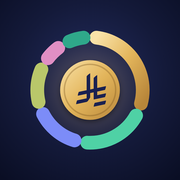
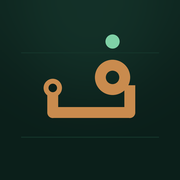
Add files via upload

diff --git a/index.html b/index.html
@@ -7,20 +7,21 @@
 <meta name="mobile-web-app-capable" content="yes">
 <meta name="apple-mobile-web-app-status-bar-style" content="black-translucent">
 <meta name="apple-mobile-web-app-title" content="التوزيع">
-<meta name="theme-color" content="#10152E">
+<meta name="theme-color" content="#0B1F1A">
 <link rel="manifest" href="manifest.json">
 <title>لوحة التوزيع — الميزانية الشهرية</title>
-<link rel="apple-touch-icon" href="icon-180.png?v=2">
+<link rel="apple-touch-icon" href="icon-180.png?v=4">
 <link rel="icon" href="icon.png?v=2">
 <style>
 @import url('https://fonts.googleapis.com/css2?family=IBM+Plex+Sans+Arabic:wght@400;500;600&family=Readex+Pro:wght@300;400;500;600;700&display=swap');
 
 :root{
-  --bg:#10152E; --bar:rgba(14,19,42,.82);
-  --surface:#171D3D; --surface2:#1F2650; --raise:#252D5C;
-  --line:#2E3670; --line-soft:#232A57;
-  --text:#F2EEE3; --muted:#959AC6; --faint:#6A6F9E;
-  --gold:#E3B55B; --mint:#4FD1A5; --coral:#FF6B5E; --lilac:#A794FF;
+  /* الهوية: لوحة توزيع — زمردي + نحاس الموصلات */
+  --bg:#0B1F1A; --bar:rgba(11,31,26,.84);
+  --surface:#102A22; --surface2:#16362C; --raise:#1C4034;
+  --line:#285244; --line-soft:#1D3F34;
+  --text:#EFEBDD; --muted:#9DB8AB; --faint:#6D8B7E;
+  --gold:#C98B4E; --mint:#7FD1A6; --coral:#E8765F; --lilac:#A9C7E0;
   /* aliases used by the script */
   --amber:var(--gold); --teal:var(--mint); --rust:var(--coral); --violet:var(--lilac);
   --r-s:10px; --r-m:14px; --r-l:26px;
@@ -59,7 +60,7 @@ body{
 .eye{background:var(--surface2);border:1px solid var(--line-soft);color:var(--muted);border-radius:var(--r-s);
   width:38px;height:38px;cursor:pointer;display:flex;align-items:center;justify-content:center;flex:none}
 .eye svg{width:19px;height:19px;display:block}
-.eye.on{color:var(--gold);border-color:rgba(227,181,91,.5);background:rgba(227,181,91,.12)}
+.eye.on{color:var(--gold);border-color:rgba(201,139,78,.5);background:rgba(201,139,78,.12)}
 
 /* ---------- sections ---------- */
 section{margin-top:34px}
@@ -68,7 +69,7 @@ section.hero{margin-top:10px}
 /* ===== ترتيب الأقسام: مجموعات وأقسام قابلة للطي ===== */
 #lockScreen{position:fixed;inset:0;z-index:9999;display:none;flex-direction:column;align-items:center;
   padding:calc(env(safe-area-inset-top,0px) + 9vh) 28px calc(env(safe-area-inset-bottom,0px) + 22px);
-  background:radial-gradient(130% 55% at 50% 0%,#1F2757 0%,var(--bg) 60%);color:var(--text);transition:opacity .3s ease}
+  background:radial-gradient(130% 55% at 50% 0%,#174034 0%,var(--bg) 60%);color:var(--text);transition:opacity .3s ease}
 body.locked #lockScreen{display:flex}
 body.locked>*:not(#lockScreen){visibility:hidden}
 #lockScreen.leaving{opacity:0}
@@ -112,7 +113,7 @@ body.locked>*:not(#lockScreen){visibility:hidden}
 .info-btn:active{color:var(--gold);border-color:var(--gold)}
 .info-btn.inline{display:grid;margin:8px 0 0 auto}
 .info-modal{text-align:center}
-.info-modal .info-ic{width:44px;height:44px;margin:0 auto 12px;border-radius:50%;background:rgba(227,181,91,.12);color:var(--gold);
+.info-modal .info-ic{width:44px;height:44px;margin:0 auto 12px;border-radius:50%;background:rgba(201,139,78,.12);color:var(--gold);
   font:italic 700 22px/44px Georgia,serif}
 .info-modal h3{margin:0 0 10px;font-size:17px}
 .info-modal p{margin:0 0 18px;font-size:14.5px;line-height:1.8;color:var(--muted);text-align:start;white-space:pre-line}
@@ -134,9 +135,11 @@ body.locked>*:not(#lockScreen){visibility:hidden}
 .seg{display:grid;grid-template-columns:repeat(4,1fr);gap:4px;background:rgba(255,255,255,.06);border-radius:11px;padding:3px;margin-top:10px}
 .seg button{border:none;background:none;color:var(--muted);font-family:inherit;font-size:12.5px;padding:8px 2px;border-radius:9px;cursor:pointer}
 .seg button.on{background:var(--surface2);color:var(--text);font-weight:600;box-shadow:0 1px 3px rgba(0,0,0,.3)}
-body.covered::before{content:'';position:fixed;inset:0;z-index:9998;background:var(--bg) url("icon-180.png?v=2") center/72px no-repeat}
+body.covered::before{content:'';position:fixed;inset:0;z-index:9998;background:var(--bg) url("icon-180.png?v=4") center/72px no-repeat}
 body.covered>*:not(#lockScreen){visibility:hidden}
-.grp-title{margin:30px 4px 8px;font-size:12px;font-weight:600;letter-spacing:.3px;color:var(--faint)}
+.grp-title{margin:30px 4px 8px;font-size:12px;font-weight:600;letter-spacing:.3px;color:var(--faint);display:flex;align-items:center;gap:10px}
+.grp-title::after{content:'';flex:1;height:1.5px;background:linear-gradient(90deg,transparent,rgba(201,139,78,.45));border-radius:2px}
+.grp-title::before{content:'';width:7px;height:7px;border-radius:50%;background:var(--gold);box-shadow:0 0 0 3px rgba(201,139,78,.18);order:2}
 section.coll{margin-top:10px}
 section.coll>.sec-title{display:flex;align-items:center;gap:10px;cursor:pointer;user-select:none;-webkit-user-select:none;
   background:var(--surface);border:1px solid var(--line-soft);border-radius:var(--r-m);padding:14px 16px;margin:0}
@@ -156,14 +159,14 @@ details.ln-person .ln-cnt{font-size:11.5px;color:var(--faint);font-weight:400}
 
 /* ---------- hero: cap ring ---------- */
 .hero .gauge-card{position:relative;border-radius:var(--r-l);padding:22px 16px 16px;
-  background:linear-gradient(180deg,#1A2147 0%,var(--surface) 55%);border:1px solid var(--line-soft);overflow:hidden}
+  background:linear-gradient(180deg,#133329 0%,var(--surface) 55%);border:1px solid var(--line-soft);overflow:hidden}
 .hero .gauge-card::before{content:'';position:absolute;inset:-40% 10% auto;height:340px;
-  background:radial-gradient(closest-side,rgba(227,181,91,.16),transparent);pointer-events:none}
+  background:radial-gradient(closest-side,rgba(201,139,78,.16),transparent);pointer-events:none}
 .ring-wrap{position:relative;width:min(272px,76vw);aspect-ratio:1;margin:0 auto}
 .ring{width:100%;height:100%;display:block;overflow:visible}
 .ring-track{fill:none;stroke:var(--surface2);stroke-width:17}
 .ring-arc{fill:none;stroke-width:17;transition:stroke-dasharray 1.1s cubic-bezier(.22,1,.36,1)}
-.ring-wrap.over .ring-track{stroke:rgba(255,107,94,.25)}
+.ring-wrap.over .ring-track{stroke:rgba(232,118,95,.25)}
 .ring-center{position:absolute;inset:0;display:flex;flex-direction:column;align-items:center;justify-content:center;text-align:center}
 .ring-center .gauge-big{font-family:var(--num);font-size:clamp(40px,12vw,54px);font-weight:600;line-height:1;
   letter-spacing:-.02em;direction:ltr;font-variant-numeric:tabular-nums}
@@ -178,7 +181,7 @@ details.ln-person .ln-cnt{font-size:11.5px;color:var(--faint);font-weight:400}
 
 .brk{display:flex;flex-wrap:wrap;gap:7px;margin-top:16px}
 .brk span{display:inline-flex;align-items:center;gap:6px;font-size:12px;color:var(--muted);
-  background:rgba(31,38,80,.7);border-radius:20px;padding:4px 10px 4px 11px}
+  background:rgba(22,54,44,.75);border-radius:20px;padding:4px 10px 4px 11px}
 .brk span i{width:8px;height:8px;border-radius:50%;flex:none}
 .brk b{color:var(--text);font-family:var(--num);font-weight:500;direction:ltr}
 
@@ -198,15 +201,15 @@ details.ln-person .ln-cnt{font-size:11.5px;color:var(--faint);font-weight:400}
 .note-in{width:100%;margin-top:8px;background:transparent;border:1px solid var(--line-soft);color:var(--text);
   border-radius:var(--r-s);padding:10px 12px;font-family:inherit;font-size:15px}
 .note-in:focus{outline:none;border-color:var(--gold)}
-select.need{border-color:var(--gold)!important;box-shadow:0 0 0 3px rgba(227,181,91,.12)}
+select.need{border-color:var(--gold)!important;box-shadow:0 0 0 3px rgba(201,139,78,.12)}
 .more-btn{background:none;border:none;color:var(--lilac);font-family:inherit;font-size:13px;padding:10px 2px 0;cursor:pointer}
 
-.btn{background:var(--gold);color:#1B1630;border:none;border-radius:var(--r-s);padding:0 20px;height:48px;
+.btn{background:var(--gold);color:#1D1606;border:none;border-radius:var(--r-s);padding:0 20px;height:48px;
   font-family:var(--num);font-size:15px;font-weight:600;cursor:pointer;white-space:nowrap;transition:transform .12s,filter .15s}
 .btn:active{transform:scale(.97);filter:brightness(1.08)}
 .btn.ghost{background:transparent;border:1px solid var(--line);color:var(--text);font-weight:500}
-.btn.warn{background:transparent;border:1px solid rgba(227,181,91,.55);color:var(--gold)}
-.btn.danger{background:rgba(255,107,94,.14);border:1px solid rgba(255,107,94,.5);color:var(--coral)}
+.btn.warn{background:transparent;border:1px solid rgba(201,139,78,.55);color:var(--gold)}
+.btn.danger{background:rgba(232,118,95,.14);border:1px solid rgba(232,118,95,.5);color:var(--coral)}
 .btn.full{width:100%;margin-top:10px}
 .btn.sm{height:40px;font-size:13.5px}
 
@@ -214,9 +217,9 @@ select.need{border-color:var(--gold)!important;box-shadow:0 0 0 3px rgba(227,181
 .log{margin-top:14px}
 .log-row{display:flex;align-items:center;gap:10px;padding:12px 2px;border-bottom:1px solid var(--line-soft);cursor:pointer;font-size:13px}
 .log-row:last-child{border-bottom:none}
-.log-row:active{background:rgba(167,148,255,.06)}
+.log-row:active{background:rgba(169,199,224,.06)}
 .log-row.fresh{animation:fresh 1.4s ease}
-@keyframes fresh{0%{background:rgba(227,181,91,.22)}100%{background:transparent}}
+@keyframes fresh{0%{background:rgba(201,139,78,.22)}100%{background:transparent}}
 .log-main{flex:1;min-width:0;display:flex;align-items:center;gap:7px;flex-wrap:wrap}
 .cdot{width:8px;height:8px;border-radius:50%;flex:none}
 .log-note{width:100%;font-size:12px;color:var(--muted);overflow:hidden;text-overflow:ellipsis;white-space:nowrap;padding-right:15px}
@@ -228,12 +231,12 @@ select.need{border-color:var(--gold)!important;box-shadow:0 0 0 3px rgba(227,181
 .cb{font-size:11px;color:var(--mint);font-family:var(--num);direction:ltr;min-width:40px;text-align:left}
 .cb.none{color:var(--faint);opacity:.6}
 .empty{color:var(--muted);font-size:13px;text-align:center;padding:24px 10px;line-height:1.8}
-.gotbtn{flex:none;background:transparent;border:1px solid rgba(167,148,255,.5);color:var(--lilac);border-radius:20px;
+.gotbtn{flex:none;background:transparent;border:1px solid rgba(169,199,224,.5);color:var(--lilac);border-radius:20px;
   font-family:inherit;font-size:11px;padding:4px 10px;cursor:pointer;white-space:nowrap}
-.gotbtn.done{border-color:rgba(79,209,165,.45);color:var(--mint)}
+.gotbtn.done{border-color:rgba(127,209,166,.45);color:var(--mint)}
 .log-row.got{opacity:.5}
 .proxyline{display:flex;justify-content:space-between;align-items:center;margin-top:14px;padding:11px 13px;
-  border-radius:var(--r-s);background:rgba(167,148,255,.08);font-size:12.5px;color:var(--muted)}
+  border-radius:var(--r-s);background:rgba(169,199,224,.08);font-size:12.5px;color:var(--muted)}
 .proxyline b{color:var(--lilac);font-family:var(--num);font-size:16px;font-weight:600;direction:ltr}
 
 /* ---------- plain gauges (fuel) ---------- */
@@ -269,7 +272,7 @@ select.need{border-color:var(--gold)!important;box-shadow:0 0 0 3px rgba(227,181
 .busbar{display:none}
 
 /* ---------- sweep ---------- */
-.sweep{background:var(--surface);border:1px solid rgba(79,209,165,.3);border-radius:var(--r-m);padding:18px 16px}
+.sweep{background:var(--surface);border:1px solid rgba(127,209,166,.3);border-radius:var(--r-m);padding:18px 16px}
 .sw-big{font-family:var(--num);font-size:40px;font-weight:600;color:var(--mint);line-height:1.05;text-align:right}
 .sw-big .rial{font-size:13px}
 .sw-sub{font-size:12px;color:var(--muted);margin-top:6px;line-height:1.7}
@@ -290,9 +293,9 @@ select.need{border-color:var(--gold)!important;box-shadow:0 0 0 3px rgba(227,181
   background:var(--bg);border:2px solid var(--line)}
 .branch[data-kind="save"]::after{border-color:var(--mint)}
 .branch[data-kind="cap"]::after{border-color:var(--gold)}
-.branch[data-kind="pre"]::after{border-color:#6FB7D9;background:#6FB7D9}
+.branch[data-kind="pre"]::after{border-color:#6FB9B6;background:#6FB9B6}
 .branch[data-kind="pre"] .card{background:transparent;border-style:dashed}
-.pretag{font-size:10px;color:#6FB7D9;border:1px solid rgba(111,183,217,.45);border-radius:20px;padding:1px 7px;margin-right:6px;font-weight:500;vertical-align:2px}
+.pretag{font-size:10px;color:#6FB9B6;border:1px solid rgba(111,185,182,.45);border-radius:20px;padding:1px 7px;margin-right:6px;font-weight:500;vertical-align:2px}
 .branch .card{display:flex;align-items:center;gap:10px}
 .b-name{flex:1;min-width:0}
 .b-name strong{display:block;font-size:14.5px;font-weight:500}
@@ -304,8 +307,8 @@ select.need{border-color:var(--gold)!important;box-shadow:0 0 0 3px rgba(227,181
 .load{height:3px;background:var(--surface2);border-radius:2px;margin-top:9px;overflow:hidden}
 .load i{display:block;height:100%;border-radius:2px;transition:width .4s ease}
 .balance{margin-top:6px;padding:12px 14px;border-radius:var(--r-s);display:flex;justify-content:space-between;align-items:center;font-size:13px}
-.balance.ok{background:rgba(79,209,165,.09);color:var(--mint)}
-.balance.off{background:rgba(255,107,94,.1);color:var(--coral)}
+.balance.ok{background:rgba(127,209,166,.09);color:var(--mint)}
+.balance.off{background:rgba(232,118,95,.1);color:var(--coral)}
 
 /* ---------- cashback ---------- */
 .cbgrid{display:grid;grid-template-columns:repeat(2,1fr);gap:8px}
@@ -339,8 +342,8 @@ select.need{border-color:var(--gold)!important;box-shadow:0 0 0 3px rgba(227,181
 .dot.closed{background:var(--mint)}
 
 /* ---------- bank inbox ---------- */
-.ib-cnt{background:var(--gold);color:#1B1630;border-radius:20px;padding:0 8px;font-size:12px;margin-right:6px;vertical-align:2px}
-.inbox{border-color:rgba(227,181,91,.35);padding:4px 14px}
+.ib-cnt{background:var(--gold);color:#1D1606;border-radius:20px;padding:0 8px;font-size:12px;margin-right:6px;vertical-align:2px}
+.inbox{border-color:rgba(201,139,78,.35);padding:4px 14px}
 .ib-row{padding:13px 0;border-bottom:1px solid var(--line-soft)}
 .ib-row:last-child{border-bottom:none}
 .ib-top{display:flex;align-items:baseline;gap:10px}
@@ -348,11 +351,11 @@ select.need{border-color:var(--gold)!important;box-shadow:0 0 0 3px rgba(227,181
 .ib-a{font-family:var(--num);font-size:17px;font-weight:600;direction:ltr}
 .ib-a.in{color:var(--mint)}
 .ib-meta{display:flex;align-items:center;gap:8px;margin-top:4px}
-.ib-dup{font-size:10.5px;color:var(--coral);border:1px solid rgba(255,107,94,.45);border-radius:20px;padding:1px 7px}
+.ib-dup{font-size:10.5px;color:var(--coral);border:1px solid rgba(232,118,95,.45);border-radius:20px;padding:1px 7px}
 .ib-act{display:flex;gap:7px;margin-top:10px;flex-wrap:wrap}
 .ib-act select{flex:1;min-width:130px;height:40px;background:var(--surface2);border:1px solid var(--line-soft);color:var(--text);border-radius:var(--r-s);padding:0 10px;font-family:inherit;font-size:15px}
 .ib-act .btn{height:40px}
-.ib-badge{background:var(--gold);color:#1B1630;border-radius:20px;min-width:26px;height:26px;display:flex;align-items:center;justify-content:center;font-size:13px;font-weight:600;text-decoration:none;padding:0 7px}
+.ib-badge{background:var(--gold);color:#1D1606;border-radius:20px;min-width:26px;height:26px;display:flex;align-items:center;justify-content:center;font-size:13px;font-weight:600;text-decoration:none;padding:0 7px}
 .synclog{margin-top:12px;font-size:12.5px;color:var(--muted)}
 .synclog summary{cursor:pointer;padding:6px 0}
 .sl-row{display:flex;gap:8px;align-items:baseline;padding:6px 0;border-bottom:1px solid var(--line-soft)}
@@ -380,7 +383,7 @@ select.need{border-color:var(--gold)!important;box-shadow:0 0 0 3px rgba(227,181
 /* ---------- tabs ---------- */
 .tab-off{display:none!important}
 .tabbar{position:fixed;left:0;right:0;bottom:0;z-index:40;display:flex;justify-content:space-around;
-  background:rgba(14,19,42,.92);backdrop-filter:saturate(1.4) blur(16px);-webkit-backdrop-filter:saturate(1.4) blur(16px);
+  background:rgba(9,26,21,.94);backdrop-filter:saturate(1.4) blur(16px);-webkit-backdrop-filter:saturate(1.4) blur(16px);
   border-top:1px solid var(--line-soft);padding:6px 6px calc(6px + env(safe-area-inset-bottom))}
 .tabbar button{position:relative;flex:1;max-width:120px;background:none;border:none;color:var(--faint);font-family:inherit;
   font-size:11px;display:flex;flex-direction:column;align-items:center;gap:3px;padding:6px 0;cursor:pointer;transition:color .2s}
@@ -399,7 +402,7 @@ select.need{border-color:var(--gold)!important;box-shadow:0 0 0 3px rgba(227,181
 .g-pct{font-family:var(--num);font-size:15px;font-weight:600;color:var(--gold)}
 .goal.done .g-pct{color:var(--mint)}
 .g-bar{height:8px;background:var(--surface2);border-radius:5px;margin:10px 0 8px;overflow:hidden}
-.g-bar i{display:block;height:100%;border-radius:5px;background:linear-gradient(90deg,var(--gold),#F2D08A);transition:width .8s cubic-bezier(.22,1,.36,1)}
+.g-bar i{display:block;height:100%;border-radius:5px;background:linear-gradient(90deg,var(--gold),#E0A873);transition:width .8s cubic-bezier(.22,1,.36,1)}
 .goal.done .g-bar i{background:var(--mint)}
 .g-nums{font-size:12.5px;color:var(--muted)}
 .g-nums .num{color:var(--text);font-weight:500}
@@ -421,8 +424,8 @@ select.need{border-color:var(--gold)!important;box-shadow:0 0 0 3px rgba(227,181
 .rep-big{font-family:var(--num);font-size:30px;font-weight:600;direction:ltr}
 .rep-sub{font-size:12.5px;color:var(--muted);margin-top:2px}
 .delta{font-family:var(--num);font-size:12px;font-weight:500;border-radius:20px;padding:2px 8px;direction:ltr;display:inline-block}
-.delta.up{color:var(--coral);background:rgba(255,107,94,.12)}
-.delta.down{color:var(--mint);background:rgba(79,209,165,.12)}
+.delta.up{color:var(--coral);background:rgba(232,118,95,.12)}
+.delta.down{color:var(--mint);background:rgba(127,209,166,.12)}
 .rep-h{font-size:12.5px;color:var(--muted);margin:18px 0 8px}
 .rc{display:grid;grid-template-columns:1fr auto;gap:4px 10px;align-items:center;margin-bottom:10px}
 .rc .rc-n{font-size:13.5px;display:flex;align-items:center;gap:7px}
@@ -462,37 +465,37 @@ select.need{border-color:var(--gold)!important;box-shadow:0 0 0 3px rgba(227,181
 .jam-tl{display:flex;gap:4px;margin:14px 0 6px;direction:rtl}
 .jam-tl i{flex:1;height:30px;border-radius:6px;background:var(--surface2);display:flex;align-items:center;justify-content:center;
   font-style:normal;font-size:9.5px;color:var(--faint);font-family:var(--num)}
-.jam-tl i.paid{background:rgba(79,209,165,.22);color:var(--mint)}
-.jam-tl i.turn{background:var(--gold);color:#1B1630;font-weight:600}
+.jam-tl i.paid{background:rgba(127,209,166,.22);color:var(--mint)}
+.jam-tl i.turn{background:var(--gold);color:#1D1606;font-weight:600}
 .jam-tl i.now{outline:2px solid var(--gold);outline-offset:1px}
 .jam-leg{display:flex;gap:12px;font-size:11px;color:var(--muted);flex-wrap:wrap}
 .jam-leg span::before{content:'';display:inline-block;width:8px;height:8px;border-radius:2px;margin-left:5px;vertical-align:0}
-.jam-leg .l1::before{background:rgba(79,209,165,.5)}.jam-leg .l2::before{background:var(--gold)}.jam-leg .l3::before{background:var(--surface2)}
+.jam-leg .l1::before{background:rgba(127,209,166,.5)}.jam-leg .l2::before{background:var(--gold)}.jam-leg .l3::before{background:var(--surface2)}
 .jam-kv{display:grid;grid-template-columns:1fr 1fr;gap:8px;margin-top:14px}
 .jam-kv div{background:var(--surface2);border-radius:var(--r-s);padding:10px 12px}
 .jam-kv span{font-size:11.5px;color:var(--muted);display:block}
 .jam-kv b{font-family:var(--num);font-size:16px;font-weight:600;direction:ltr;display:inline-block}
-.jam-msg{margin-top:12px;font-size:13px;line-height:1.8;padding:10px 12px;border-radius:var(--r-s);background:rgba(79,209,165,.08);color:var(--mint)}
+.jam-msg{margin-top:12px;font-size:13px;line-height:1.8;padding:10px 12px;border-radius:var(--r-s);background:rgba(127,209,166,.08);color:var(--mint)}
 
 /* ---------- payday ---------- */
 .pay-head{display:flex;justify-content:space-between;align-items:baseline;gap:10px}
 .pay-head strong{font-family:var(--num);font-size:16px;font-weight:600}
 .pay-head span{font-size:12.5px;color:var(--muted)}
 .pay-bar{height:8px;background:var(--surface2);border-radius:5px;margin:12px 0 6px;overflow:hidden}
-.pay-bar i{display:block;height:100%;background:linear-gradient(90deg,var(--mint),#8FE6C8);border-radius:5px;transition:width .6s cubic-bezier(.22,1,.36,1)}
+.pay-bar i{display:block;height:100%;background:linear-gradient(90deg,var(--mint),#B5E6CB);border-radius:5px;transition:width .6s cubic-bezier(.22,1,.36,1)}
 .ps{display:flex;align-items:center;gap:11px;padding:11px 0;border-bottom:1px solid var(--line-soft);cursor:pointer}
 .ps:last-child{border-bottom:none}
 .ps-c{width:24px;height:24px;border-radius:50%;border:2px solid var(--line);flex:none;display:flex;align-items:center;justify-content:center;transition:all .2s}
 .ps.done .ps-c{background:var(--mint);border-color:var(--mint)}
-.ps.done .ps-c::after{content:'';width:6px;height:11px;border:solid #10152E;border-width:0 2.5px 2.5px 0;transform:rotate(45deg) translate(-1px,-1px)}
+.ps.done .ps-c::after{content:'';width:6px;height:11px;border:solid #0B1F1A;border-width:0 2.5px 2.5px 0;transform:rotate(45deg) translate(-1px,-1px)}
 .ps-n{flex:1;min-width:0}
 .ps-n strong{display:block;font-size:14.5px;font-weight:500}
 .ps-n small{display:block;font-size:11.5px;color:var(--muted);overflow:hidden;text-overflow:ellipsis;white-space:nowrap}
 .ps.done .ps-n strong{color:var(--muted);text-decoration:line-through}
 .ps-a{font-family:var(--num);font-size:15px;font-weight:500;direction:ltr}
-.ps-auto{font-size:10px;color:var(--mint);border:1px solid rgba(79,209,165,.45);border-radius:20px;padding:0 6px;margin-right:6px;vertical-align:1px}
+.ps-auto{font-size:10px;color:var(--mint);border:1px solid rgba(127,209,166,.45);border-radius:20px;padding:0 6px;margin-right:6px;vertical-align:1px}
 .ps-btn{margin:4px 0 2px}
-.pay-banner{display:flex;align-items:center;gap:12px;cursor:pointer;border-color:rgba(79,209,165,.4);background:linear-gradient(90deg,rgba(79,209,165,.1),var(--surface))}
+.pay-banner{display:flex;align-items:center;gap:12px;cursor:pointer;border-color:rgba(127,209,166,.4);background:linear-gradient(90deg,rgba(127,209,166,.1),var(--surface))}
 .pay-banner .pb-ic{font-size:22px}
 .pay-banner .pb-t{flex:1}
 .pay-banner strong{display:block;font-size:14.5px;font-weight:600}
@@ -503,15 +506,15 @@ select.need{border-color:var(--gold)!important;box-shadow:0 0 0 3px rgba(227,181
 .hc{display:flex;gap:11px;padding:11px 0;border-bottom:1px solid var(--line-soft);align-items:flex-start}
 .hc:last-child{border-bottom:none}
 .hc-i{width:24px;height:24px;border-radius:50%;flex:none;display:flex;align-items:center;justify-content:center;font-size:13px;font-weight:700;margin-top:1px}
-.hc.ok .hc-i{background:rgba(79,209,165,.18);color:var(--mint)}
-.hc.warn .hc-i{background:rgba(227,181,91,.18);color:var(--gold)}
-.hc.bad .hc-i{background:rgba(255,107,94,.18);color:var(--coral)}
+.hc.ok .hc-i{background:rgba(127,209,166,.18);color:var(--mint)}
+.hc.warn .hc-i{background:rgba(201,139,78,.18);color:var(--gold)}
+.hc.bad .hc-i{background:rgba(232,118,95,.18);color:var(--coral)}
 .hc-t{flex:1;min-width:0}
 .hc-t strong{display:block;font-size:14px;font-weight:500}
 .hc-t small{display:block;font-size:12px;color:var(--muted);line-height:1.7;margin-top:1px}
 .hc-sum{display:flex;gap:8px;margin-bottom:6px;flex-wrap:wrap}
 .hc-sum span{font-size:12px;border-radius:20px;padding:3px 10px;background:var(--surface2)}
-.alert-card{display:flex;gap:12px;align-items:center;cursor:pointer;border-color:rgba(227,181,91,.5);background:linear-gradient(90deg,rgba(227,181,91,.12),var(--surface))}
+.alert-card{display:flex;gap:12px;align-items:center;cursor:pointer;border-color:rgba(201,139,78,.5);background:linear-gradient(90deg,rgba(201,139,78,.12),var(--surface))}
 .alert-card .al-i{font-size:22px}
 .alert-card strong{display:block;font-size:14px;font-weight:600}
 .alert-card small{font-size:12px;color:var(--muted);line-height:1.6}
@@ -545,7 +548,7 @@ textarea{width:100%;height:120px;background:var(--surface2);border:1px solid var
 .chk input{width:18px;height:18px;accent-color:var(--mint)}
 .del{background:none;border:none;color:var(--muted);font-size:20px;cursor:pointer;padding:2px 8px;line-height:1;flex:none}
 .hide{display:none!important}
-.mask{position:fixed;inset:0;background:rgba(8,10,24,.7);backdrop-filter:blur(6px);-webkit-backdrop-filter:blur(6px);z-index:60;
+.mask{position:fixed;inset:0;background:rgba(4,14,11,.72);backdrop-filter:blur(6px);-webkit-backdrop-filter:blur(6px);z-index:60;
   display:none;align-items:flex-end;justify-content:center;padding:0}
 .mask.on{display:flex}
 .modal{background:var(--surface);border:1px solid var(--line-soft);border-radius:24px 24px 0 0;
@@ -883,13 +886,13 @@ input[type=checkbox],input[type=radio]{font-size:inherit!important}
       <textarea id="box" placeholder="ألصق نسختك هنا ثم اضغط استعادة" style="display:none"></textarea>
     </div>
   </section>
-  <section data-tab="settings"><p style="text-align:center;opacity:.5;font-size:12px;margin:8px 0 0">إصدار اللوحة: 26/9 — إعدادات القفل</p></section>
+  <section data-tab="settings"><p style="text-align:center;opacity:.5;font-size:12px;margin:8px 0 0">إصدار اللوحة: 26/9 — هوية «ف»</p></section>
 
 </div>
 
 <div id="lockScreen" aria-hidden="true">
   <div class="lk-head">
-    <img class="lk-av" src="icon-180.png?v=2" alt="" onerror="this.style.visibility='hidden'">
+    <img class="lk-av" src="icon-180.png?v=4" alt="" onerror="this.style.visibility='hidden'">
     <div class="lk-greet" id="lkGreet"></div>
     <div class="lk-name" id="lkName"></div>
   </div>
@@ -1030,10 +1033,10 @@ input[type=checkbox],input[type=radio]{font-size:inherit!important}
 
 <script>
 const KEY='fadhl_budget_v2';
-const LINE_COLORS={car:'#7C8CF8',ball:'#4FD1A5',mom:'#E08FC4',card:'#E3B55B',jam:'#B9C76A',save:'#2FA88A',zamala:'#6FB7D9',fuel:'#F2D08A'};
-const CAT_COLORS={dining:'#FF8A5B',coffee:'#C98B5E',fuel:'#E3B55B',bills:'#7C8CF8',grocery:'#4FD1A5',other:'#B59CFF',carcare:'#6FB7D9',
-  pharmacy:'#F07AA8',transport:'#C9D66B',clothes:'#F5A3C7',gift:'#FFD27A',proxy:'#A794FF'};
-const XTRA=['#5EC8E5','#F2A65A','#9BE38A','#E77FD1','#D9C36A','#7FA8FF'];
+const LINE_COLORS={car:'#8FB3D9',ball:'#8FD1A8',mom:'#D9A0BE',card:'#C98B4E',jam:'#B7C57A',save:'#5DB592',zamala:'#6FB9B6',fuel:'#E6CF93'};
+const CAT_COLORS={dining:'#E0896A',coffee:'#B98A62',fuel:'#C98B4E',bills:'#8FB3D9',grocery:'#8FD1A8',other:'#B7A7D9',carcare:'#6FB9B6',
+  pharmacy:'#E3A0B4',transport:'#C7CC7A',clothes:'#D8B4C8',gift:'#E8C77A',proxy:'#A9C7E0',fromsave:'#7EC4D4'};
+const XTRA=['#7EC4D4','#E3A86B','#A8D98F','#D59CC9','#D6C67A','#9BB6E8'];
 const lineColor=l=>LINE_COLORS[l.id]||l.color;
 const catColor=id=>CAT_COLORS[id]||XTRA[Math.max(0,S.cats.findIndex(c=>c.id===id))%XTRA.length];
 const RM=window.matchMedia&&matchMedia('(prefers-reduced-motion:reduce)').matches;
